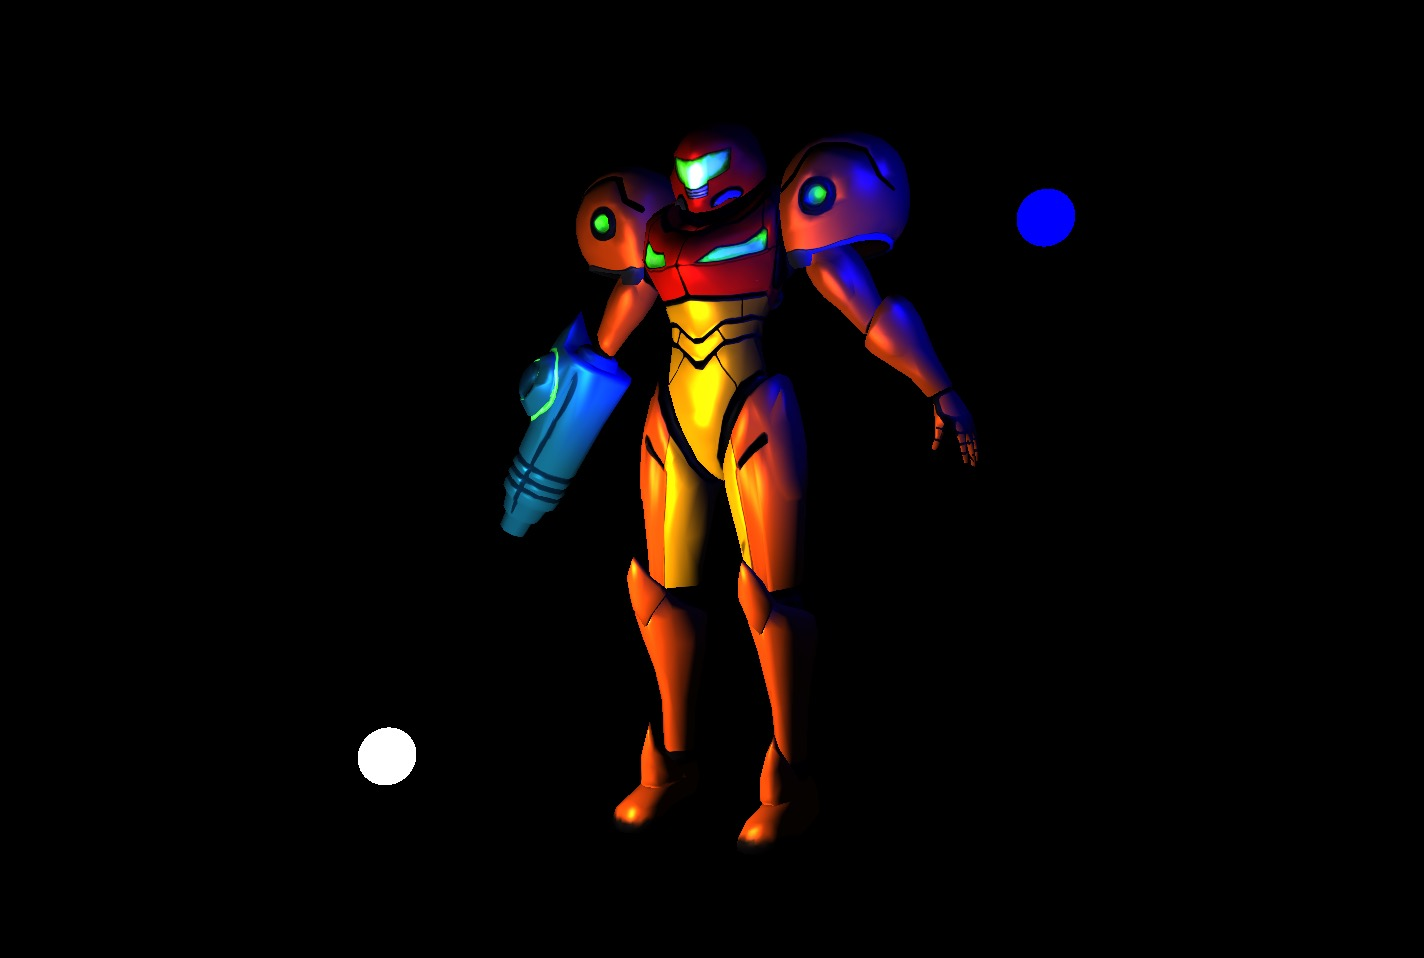
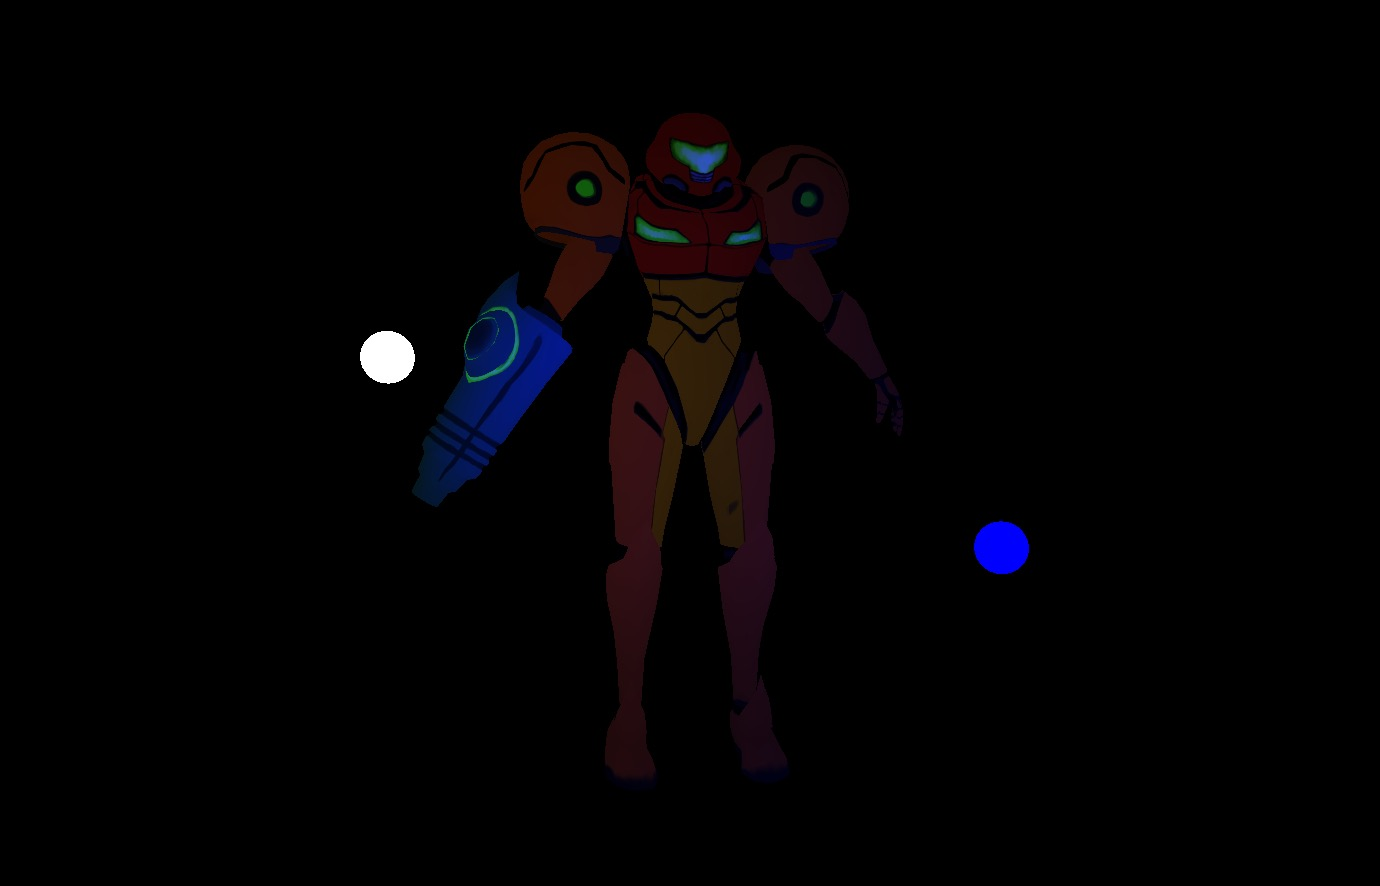
dev log

diff --git a/dev-log/part-16/README.md b/dev-log/part-16/README.md
@@ -11,9 +11,322 @@
 
 ## Table of Content
 
-- [Model Mesh Reference](#model-mesh-reference)
+- [Light Component](#light-component)
+- [Light Data](#light-data)
+- [Light Manager](#light-manager)
+- [Scene](#scene)
+- [Material](#material)
+- [Material Data](#material-data)
+- [Lit Shader](#lit-shader)
+  - [Attenuation](#attenuation)
+  - [Ambient](#ambient)
+  - [Diffuse](#diffuse)
+  - [Specular](#specular)
+- [Result](#result)
 
 ---
+
+## Light Component
+
+Will be in charge of keeping the **position** of the **light**, by reusing the **transform object**.
+Also generates the **Light Data** whenever requested.
+
+```swift
+enum LightType {
+    case Point
+    case Directional
+}
+
+class Light : Component {
+
+    public var type: LightType = LightType.Point
+
+    public var intensity: Float = 1
+    public var ambient: Float = 0.3
+    public var color: float4 = Colors.White
+
+    public var range: Float = 0.6
+
+    private var _data: LightData = LightData()
+    public var data: LightData! {
+
+        _data.position = gameObject.position
+        _data.color = color
+        _data.intensity = intensity
+        _data.ambient = ambient
+        _data.range = range
+
+        return _data
+    }
+}
+```
+
+---
+
+## Light Data
+
+Is just a **struct** that can be passed down to the **GPU** with the relevant **Light information**.
+
+```swift
+struct LightData: sizeable {
+    var position: float3 = float3(repeating: 0)
+    var color: float4 = Colors.White
+    var intensity: Float = 1
+    var ambient: Float = 0.3
+    var range: Float = 0.6
+}
+```
+
+The **GPU** will also define a struct to access the data from the **buffer**.
+
+```c
+struct LightData {
+    float3 position;
+    float4 color;
+    float intensity;
+    float ambient;
+    float range;
+};
+```
+
+---
+
+## Light Manager
+
+Each time a **light component** is added to a **game object**, the **light manager** keeps track of it.
+
+```swift
+class GameObject : Transform {
+    private var _components: [Component]! = []
+
+    public func addComponent(_ component: Component){
+        _components.append(component)
+        component.setGameObject(self)
+
+        // set the camera as the main camera
+        if let camera  = component as? Camera {
+            CameraManager.mainCamera = camera
+        }
+
+        // keep track of the lights
+        if let light  = component as? Light {
+            LightManager.addLight(light)
+        }
+    }
+}
+```
+
+The **Light Manager** is in charge of generating the **buffer** with all the **Light Data**.
+
+It's very inefficient to do this on each cycle, but for siplicity we will keep it like this for now.
+
+```swift
+class LightManager {
+    public static var lightsBuffer: MTLBuffer? {
+        if(_lights.count == 0) { return nil }
+
+        _lightDatas = []
+        for light in _lights {
+            _lightDatas.append(light.data)
+        }
+
+        // ineficcient, but will do for now
+        // we need an updated position of the lights
+        return Engine.device.makeBuffer(bytes: _lightDatas, length: LightData.stride * _lightDatas.count , options: [])
+    }
+
+    public static var lightsCount: Int! {
+        return _lights.count
+    }
+
+    private static var _lightDatas: [LightData]! = []
+    private static var _lights: [Light]! = []
+    private static var _lightsBuffer: MTLBuffer!
+
+    static func addLight(_ light: Light) {
+        _lights.append(light)
+    }
+}
+```
+
+---
+
+## Scene
+
+Now also sets the **Light Data** buffer whenever there are lights on the **scene**.
+
+```swift
+override func render() {
+
+    updateSceneConstants()
+
+    // set the view matrix and projection matrix
+    Graphics.renderCommandEncoder.setVertexBytes(&_sceneConstants, length: SceneConstants.stride, index: 2)
+
+    // set light data
+    if LightManager.lightsCount > 0 {
+        var lightsCount = LightManager.lightsCount
+        Graphics.renderCommandEncoder.setFragmentBuffer(LightManager.lightsBuffer, offset: 0, index: 1)
+        Graphics.renderCommandEncoder.setFragmentBytes(&lightsCount, length: Int32.stride, index: 2)
+    }
+
+    super.render()
+}
+```
+
+---
+
+## Material
+
+Materials now also have some common **surface properties**, like **color** and **glossiness**.
+In the future they can also have **standard surface properties** like **emission**, **metallic**, **albedo**, **normal maps**, etc.
+
+By default, **Materials** set their **values** to the **GPU** in the **fragment buffer 0**.
+
+```swift
+class Material {
+    public var materialData: MaterialData = MaterialData()
+
+    public var vertexFunctionName: String = VertexFunctionNames.Basic
+    public var fragmentFunctionName: String = FragmentFunctionNames.VertexColor
+
+    public var renderPipelineStateId: String {
+        return "\(vertexFunctionName)/\(fragmentFunctionName)"
+    }
+
+    func setColor(_ color: float4){
+        materialData.color = color
+    }
+
+    func setGlossiness(_ glossiness: Float){
+        materialData.glossiness = glossiness
+    }
+
+    func setGpuValues() {
+        Graphics.renderCommandEncoder.setFragmentBytes(&materialData, length: MaterialData.stride, index: 0)
+    }
+}
+```
+
+---
+
+## Material Data
+
+Is just a **struct** that can be passed down to the **GPU** with the relevant **Material values**.
+
+```swift
+struct MaterialData: sizeable {
+    public var color: float4 = Colors.White
+    public var glossiness: Float = 2
+}
+```
+
+The **GPU** will also define a struct to access the data from the **buffer**.
+
+```c
+struct MaterialData {
+    float4 color;
+    float glossiness;
+};
+```
+
+---
+
+## Lit Shader
+
+The **general structure** of the **lit shader** that **samples textures** will be like below.
+It takes in the **material properties** to access the **glossiness** for the **specular calculation**.
+The **lights** will come in an array, each with their poisition and other relevant data.
+
+The **fragment shader** will also have access to **the camera position**, and the **normals** of the fragments.
+
+```c
+fragment half4 lit_texture_sample_fragment_shader(
+    const FragmentData IN [[ stage_in ]],
+
+    constant MaterialData & materialData [[ buffer(0) ]],
+
+    constant LightData * lights [[ buffer(1) ]],
+    constant int & lightsCount [[ buffer(2) ]],
+
+    // sampler and texture2d coming in their corresponding memory blocks
+    sampler sampler2d [[ sampler(0) ]],
+    texture2d<float> texture [[ texture(0) ]]
+){
+    // sample texture
+    float4 color = texture.sample(sampler2d, IN.uv);
+
+    for(int i = 0; i < lightsCount; i++){
+        LightData light = lights[i];
+
+        // TODO: CALCULATE PHONG LIGHTING
+    }
+
+    float4 phong = totalAmbient + totalDiffuse + totalSpecular;
+    color = color * phong;
+
+    return half4(color.r, color.g, color.b, color.a);
+}
+```
+
+### Attenuation
+
+We calculate a **linear attenuation** to make the light **intensity fade away** the farther away we are from the light, given a **range**.
+
+```c
+LightData light = lights[i];
+
+// light direction
+float4 lightDir = float4(light.position.xyz, 1) - IN.worldPosition;
+
+// attenuation
+float distanceToLight = length(lightDir);
+float attenuation = 1 - clamp(distanceToLight/light.range, 0.0, 1.0);
+```
+
+### Ambient
+
+The **ambient** is calculated using the **ambient intensity** of the **light**, its **color** and the **attenuation**.
+
+```c
+// ambient
+float4 ambient = light.color * light.ambient * attenuation;
+```
+
+![Picture](./1.jpg)
+
+### Diffuse
+
+The **diffuse** is calculated by doing the **DOT product** between the **surface normal** and the **light direction** vector.
+The more the **surface** is to a **90 degree to the light direction**, or past it **facing away from the light**, the **darker** it's going to be.
+
+```c
+// diffuse
+float nDotL = max(dot(normalize(IN.worldNormal), normalize(lightDir)), 0.0);
+float4 diffuse =  light.color * nDotL * light.intensity * attenuation;
+```
+
+![Picture](./2.jpg)
+
+### Specular
+
+The **specular** is calculated by **reflecting** the **light direction** by the **surface normal vector**.
+Then doing the **DOT product** between the **reflected light direction** and the **view direction**.
+
+The more the rays are pointing to the camera, the brighter.
+
+Finally we do a **power** by the **glossiness** defined in the **material**, the more glossiness, the **sharper** the **reflections** will be.
+
+```c
+// specular
+float3 viewDir = IN.cameraPosition - IN.worldPosition.xyz;
+float3 reflectedLightDir = reflect(-normalize(lightDir.xyz), normalize(IN.worldNormal.xyz));
+float vDotL = max(0.0, dot(reflectedLightDir, normalize(viewDir))); // avoid negative values
+vDotL = pow(vDotL, materialData.glossiness);
+float4 specular =  light.color * vDotL * light.intensity * attenuation;
+```
+
+![Picture](./3.jpg)
 
 ---
 
@@ -21,5 +334,5 @@
 
 The **3D model of Samus** is now correclty illuminated with **ambient**, **diffuse** and **specular** components.
 
-![Picture](./1.jpg)
-![Picture](./2.jpg)
+![Picture](./4.jpg)
+![Picture](./5.jpg)
